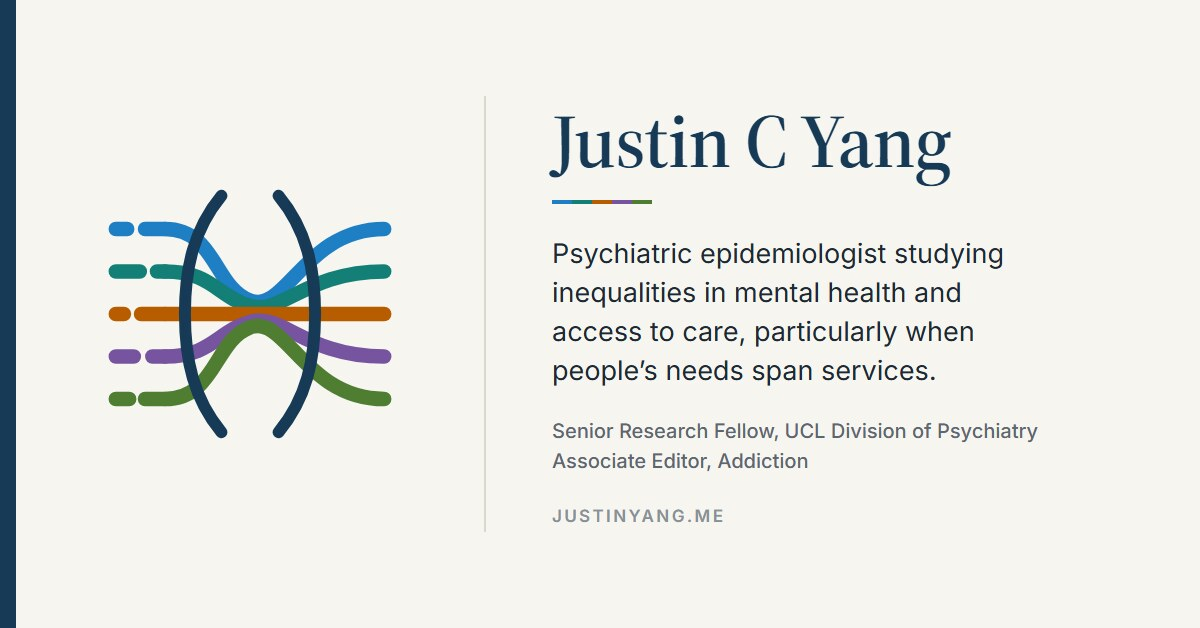
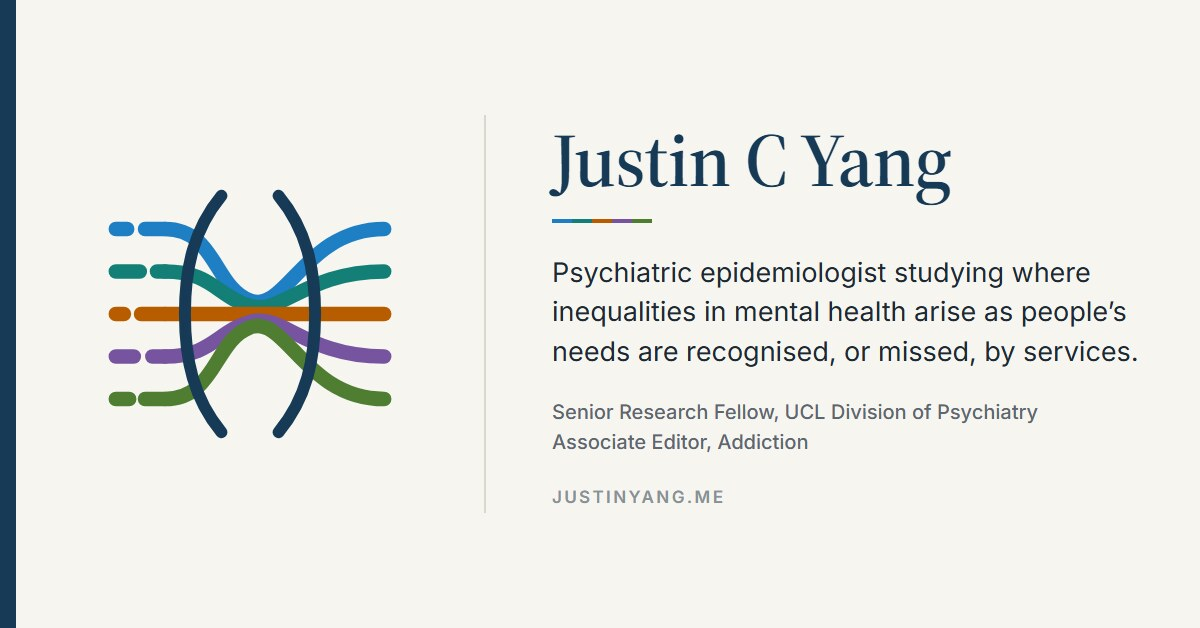
Frame the site around where inequalities in mental health arise
Use one guiding question across the site: where inequalities in mental
health arise, at the points where people's needs are recognised or missed
by services and acted on or not. Service boundaries become the
distinctive case (each service records only its part), and the data
governance work becomes part of the same question rather than an aside.

- Homepage lede, research intro, How I work and Working together
- Research intro, with the "pathways to care" lineage and an explicit
  "linked where possible" so linkage is not overstated
- About biography (pronoun-free), Contact, and the PhD note on Teaching
  (source and committed HTML, verified by local re-render)
- Site and page meta descriptions, social card text and alt text, README

Research area sections are unchanged; they already fit the frame.

Changed region(s): [[0.4625, 0.3933, 0.9558, 0.6051], [0.4625, 0.6354, 0.8633, 0.8471], [0.4625, 0.1815, 0.8017, 0.3631]]

diff --git a/content/about/index.html b/content/about/index.html
@@ -15,7 +15,7 @@ output:
 <p class="bio-note">
 For event organisers and editors: this biography may be reused as written.
 </p>
-<p>Dr Justin C Yang is a psychiatric epidemiologist and Senior Research Fellow in the Division of Psychiatry at University College London, and an Associate Editor of <em>Addiction</em>. Dr Yang’s research asks why mental health outcomes and access to care differ between people and places, particularly when people’s needs span different services, such as school and health care, mental health and addiction treatment, or health and social care. This work uses linked population and clinical data to study how needs are identified, who receives treatment or support, and what happens over time.</p>
+<p>Dr Justin C Yang is a psychiatric epidemiologist and Senior Research Fellow in the Division of Psychiatry at University College London, and an Associate Editor of <em>Addiction</em>. Dr Yang’s research asks where inequalities in mental health arise: the points at which people’s needs are recognised or missed by services, and acted on or not, particularly when those needs span school and health care, mental health and addiction treatment, or health and social care. The work uses routinely collected records from these services, linked where possible, and addresses how such records can be used in ways the public can trust.</p>
 <p>Dr Yang holds a UKRI Mental Health Platform Cross-Hub Fellowship (WISDOM, 2026 to 2029), and has led an NIHR Team Science award on England’s national drug and alcohol treatment data (UNITED) and an ADR UK fellowship on the education and health of neurodivergent pupils (HOPE-SEN). Dr Yang is Deputy Lead of the North London NHS Foundation Trust research database and an Expert Member of the Health Research Authority’s Confidentiality Advisory Group, and holds a PhD in Public Health and Primary Care from the University of Cambridge and an MSPH in Health Policy from Johns Hopkins University.</p>
 </div>
 <div id="roles-and-recognition" class="section level2">

diff --git a/content/teaching/index.html b/content/teaching/index.html
@@ -225,5 +225,5 @@ MSc
 </div>
 <div id="prospective-doctoral-students" class="section level2">
 <h2>Prospective doctoral students</h2>
-<p>I welcome enquiries from prospective PhD students whose questions fit my research on school and health, mental health and addiction services, or health and social care in severe mental illness, particularly projects about people whose needs span more than one service. Please <a href="../contact/">get in touch</a> with a short outline of your question, the data or methods you have in mind, and your likely funding route.</p>
+<p>I welcome enquiries from prospective PhD students whose questions fit my research on school and health, mental health and addiction services, or health and social care in severe mental illness, particularly projects on where needs are recognised or missed, including when they span more than one service. Please <a href="../contact/">get in touch</a> with a short outline of your question, the data or methods you have in mind, and your likely funding route.</p>
 </div>

diff --git a/scripts/social-card.html b/scripts/social-card.html
@@ -82,7 +82,7 @@
     <div class="rule" aria-hidden="true">
       <span style="background:#1f7fc4"></span><span style="background:#137f76"></span><span style="background:#b85c00"></span><span style="background:#76549f"></span><span style="background:#4f7d32"></span>
     </div>
-    <p class="lede">Psychiatric epidemiologist studying inequalities in mental health and access to care, particularly when people’s needs span services.</p>
+    <p class="lede">Psychiatric epidemiologist studying where inequalities in mental health arise as people’s needs are recognised, or missed, by services.</p>
     <p class="roles">Senior Research Fellow, UCL Division of Psychiatry<br>Associate Editor, Addiction</p>
     <p class="url">JUSTINYANG.ME</p>
   </div>

diff --git a/content/_index.md b/content/_index.md
@@ -1,13 +1,13 @@
 ---
 title: Home
-description: "Dr Justin C Yang is a UCL psychiatric epidemiologist studying inequalities in mental health and access to care, particularly when people's needs span services."
+description: "Dr Justin C Yang is a UCL psychiatric epidemiologist studying where inequalities in mental health arise as people's needs are recognised, or missed, by services."
 ---
 
 <div class="home-intro">
 <img class="home-portrait" src="team/pictures/justinyang.webp" alt="Portrait of Justin C Yang" width="256" height="256" decoding="async" fetchpriority="high">
 <div class="home-intro-text">
 <h1>Justin C Yang</h1>
-<p class="home-lede">I study why mental health outcomes and access to support differ between people and places, particularly when people's needs span services. An autistic child's support may involve both school and the NHS; someone with psychosis who uses drugs may encounter separate mental health and addiction services. I use linked population and clinical data to understand how needs are identified, what happens over time, and where gaps in support arise.</p>
+<p class="home-lede">I study where inequalities in mental health arise: the points at which someone's needs are noticed or missed by services, and acted on or not. Whether a school recognises a child's autism, or whether someone with psychosis who uses drugs is treated by one service or passed between two, can shape what follows. Each service records only its part, so I use records from schools, the NHS, and addiction treatment services, linked where possible, to find where these inequalities arise and where services could act.</p>
 <p class="home-role">I am a psychiatric epidemiologist and Senior Research Fellow in the <a href="https://www.ucl.ac.uk/psychiatry">UCL Division of Psychiatry</a>, and an Associate Editor of <a href="https://onlinelibrary.wiley.com/journal/13600443"><i>Addiction</i></a>.</p>
 </div>
 </div>
@@ -37,7 +37,7 @@ description: "Dr Justin C Yang is a UCL psychiatric epidemiologist studying ineq
 
 ## Research
 
-My work spans three connected research areas, each developed through a series of studies. See [Research](research/) for more detail.
+I follow this question in three areas, each developed through a series of studies. See [Research](research/) for more detail.
 
 <div class="mindset-questions theme-cards">
   <section class="mindset-question">
@@ -71,10 +71,10 @@ My work spans three connected research areas, each developed through a series of
 
 ## How I work
 
-Following people across services usually means bringing together records that each service keeps separately, in ways the public can trust. Since 2019 I have helped run the [research database](https://www.northlondonmentalhealth.nhs.uk/research-database-) of what is now North London NHS Foundation Trust, now as Deputy Lead, and I sit on the Health Research Authority's Confidentiality Advisory Group, which advises on when confidential patient information can be used without consent.
+Seeing where needs are recognised or missed usually means bringing together records that each service keeps separately, in ways the public can trust. Since 2019 I have helped run the [research database](https://www.northlondonmentalhealth.nhs.uk/research-database-) of what is now North London NHS Foundation Trust, now as Deputy Lead, and I sit on the Health Research Authority's Confidentiality Advisory Group, which advises on when confidential patient information can be used without consent.
 
 ## Working together
 
 MINDSET is the name of my research group: the postdoctoral researchers whose research I direct day to day, and the doctoral students I co-supervise. See [Team](team/). I collaborate with academic groups, NHS trusts, treatment providers, and people with lived experience.
 
-I welcome conversations about research on people whose needs span education, health, addiction, and social care services, and about doctoral supervision. [Get in touch](contact/).
+I welcome conversations about research on how mental health needs are recognised and acted on across education, health, addiction, and social care services, and about doctoral supervision. [Get in touch](contact/).

diff --git a/content/research/index.md b/content/research/index.md
@@ -1,13 +1,13 @@
 ---
 title: Research
-description: "Research by Dr Justin C Yang on inequalities in mental health and access to care, particularly where needs span education, health, addiction, and social care services."
+description: "Research by Dr Justin C Yang on where inequalities in mental health arise as needs are recognised, or missed, across education, health, addiction, and social care services."
 ---
 
-My research asks why mental health outcomes, and access to treatment and support, differ between people and places. I am particularly interested in people whose needs span different services: schools and the NHS, mental health and addiction treatment, and health and social care. Across this work I study how needs are identified, who receives treatment or support, and what happens to people over time.
+My research asks where inequalities in mental health arise: the points at which someone's needs are noticed or missed by services, and acted on or not. Whether a school recognises a child's autism, whether someone with a drug problem and a mental illness reaches treatment, and what support a person with severe mental illness receives outside hospital can all shape what follows, and each differs between groups and places.
 
-Each service records only part of a person's experience, so I often bring together population and clinical records that are kept separately. How to do that well, and in ways the public can trust, is described under [How I work](#how-i-work).
+Many people's needs span more than one service: schools and the NHS, mental health and addiction treatment, health and social care. Each service sees and records only its part, so these points are often invisible in any single dataset. I use records from schools, the NHS, and addiction treatment services, linked where possible, to find where inequalities arise, so that services and policy can act on them. In this sense the work extends the “pathways to care” tradition in psychiatric epidemiology beyond health services. How such records can be used well, and in ways the public can trust, is described under [How I work](#how-i-work).
 
-These questions connect three research areas, each developed through a series of studies. Funding details are on the [Funding](../funding/) page, and the full record is on [Publications](../publications/).
+I follow this question in three areas, each developed through a series of studies. Funding details are on the [Funding](../funding/) page, and the full record is on [Publications](../publications/).
 
 ## School and health
 
@@ -37,7 +37,7 @@ People with severe mental illness are supported in hospital, in the community, a
 
 ## How I work
 
-Following people across services depends on records that are governed, linked, accessed, and documented well, and used in ways the public can trust. I work on this directly.
+Seeing where needs are recognised or missed depends on records that are well governed, linked, and documented, and used in ways the public can trust. I work on this directly.
 
 - **NHS research database.** Since 2019 I have helped run the research database of what is now North London NHS Foundation Trust, first as Database Manager and now as Deputy Lead. After the merger of Camden and Islington and Barnet, Enfield and Haringey mental health trusts, I led the integration of their records into a single research database, including the ethics and Confidentiality Advisory Group approvals and new access arrangements. I have advised on 31 research projects using the database and contribute to harmonisation with the equivalent databases at South London and Maudsley, Oxford Health, and Cambridgeshire and Peterborough.
 - **National data governance.** I am an Expert Member of the Health Research Authority's Confidentiality Advisory Group, which advises on when confidential patient information can be used without consent. I am also a public member of the Eastern England Secure Data Environment's Data Access Committee and a member of an ADR UK Task and Finish Group on researchers' access to data.

diff --git a/content/contact/index.md b/content/contact/index.md
@@ -3,7 +3,7 @@ title: Contact
 description: "Contact Dr Justin C Yang about research collaboration, doctoral supervision, speaking invitations, or advisory work."
 ---
 
-I welcome enquiries about **research collaboration**, particularly on people whose needs span education, health, addiction, and social care services; **doctoral supervision**; **speaking and methods training**; and **advice on research data access and governance**.
+I welcome enquiries about **research collaboration**, particularly on how mental health needs are recognised and acted on across education, health, addiction, and social care services; **doctoral supervision**; **speaking and methods training**; and **advice on research data access and governance**.
 
 You can email me directly at [justin.yang@ucl.ac.uk](mailto:justin.yang@ucl.ac.uk), or use the form below. Prospective PhD students should include a short outline of their question, the data or methods they have in mind, and their likely funding route.
 

diff --git a/README.md b/README.md
@@ -2,10 +2,9 @@
 
 Source for [www.justinyang.me](https://www.justinyang.me/), the academic
 website of Dr Justin C Yang, a psychiatric epidemiologist in the UCL Division
-of Psychiatry. The research it describes asks why mental health outcomes and
-access to care differ between people and places, particularly when people's
-needs span services such as school and the NHS, mental health and addiction
-treatment, and health and social care.
+of Psychiatry. The research it describes asks where inequalities in mental
+health arise as people's needs are recognised, or missed, by services such as
+schools, the NHS, addiction treatment, and social care.
 
 The site presents research, publications, funding, the MINDSET research group
 and its partners, teaching and supervision, talks, roles and recognition, open
